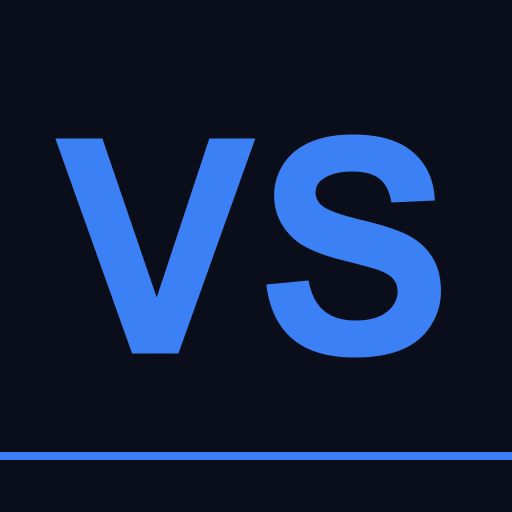
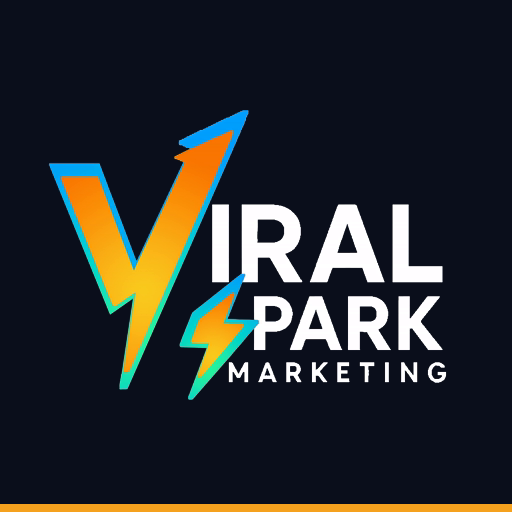
Add files via upload

Changed region(s): [[0.0938, 0.2188, 0.875, 0.7812], [0.0, 0.9688, 1.0, 1.0], [0.0, 0.875, 1.0, 0.9062]]

diff --git a/index.html b/index.html
@@ -31,10 +31,9 @@ body{font-family:var(--f-body);background:var(--vs-bg);color:var(--vs-text);-web
 
 /* SIDEBAR */
 .sidebar{background:var(--vs-navy);color:#fff;padding:24px 16px;position:sticky;top:0;height:100vh;overflow-y:auto}
-.brand{display:flex;align-items:center;gap:10px;padding:6px 8px 22px}
-.brand .mark{width:30px;height:30px;border-radius:8px;background:linear-gradient(135deg,var(--vs-blue),#22D3EE);display:flex;align-items:center;justify-content:center;font-family:var(--f-display);font-weight:800;font-size:15px;color:#fff}
-.brand .name{font-family:var(--f-display);font-weight:700;font-size:15px;letter-spacing:-.01em;line-height:1.1}
-.brand .name small{display:block;font-family:var(--f-mono);font-weight:500;font-size:9px;letter-spacing:.18em;color:rgba(255,255,255,.4);text-transform:uppercase;margin-top:2px}
+.brand{display:flex;flex-direction:column;align-items:center;gap:6px;padding:8px 8px 22px}
+.brand .brandlogo{width:150px;max-width:82%;height:auto;display:block}
+.brand .brandsub{font-family:var(--f-mono);font-weight:500;font-size:10px;letter-spacing:.24em;text-transform:uppercase;color:rgba(255,255,255,.45)}
 .navlabel{font-family:var(--f-mono);font-size:9px;letter-spacing:.18em;text-transform:uppercase;color:rgba(255,255,255,.35);margin:18px 10px 8px}
 .navbtn{display:flex;align-items:center;gap:11px;width:100%;text-align:left;border:none;background:transparent;color:rgba(255,255,255,.72);font-family:var(--f-display);font-weight:600;font-size:14px;padding:11px 12px;border-radius:10px;cursor:pointer;transition:.15s;margin-bottom:2px}
 .navbtn:hover{background:rgba(255,255,255,.06);color:#fff}
@@ -116,8 +115,8 @@ canvas#stage{display:none}
   <!-- SIDEBAR -->
   <aside class="sidebar">
     <div class="brand">
-      <div class="mark">VS</div>
-      <div class="name">Creative OS<small>Viral Spark</small></div>
+      <img class="brandlogo" src="vs-logo.png" alt="Viral Spark Marketing">
+      <div class="brandsub">Creative OS</div>
     </div>
     <div class="navlabel">Produce</div>
     <button class="navbtn active" data-screen="generate"><span class="ic">⚡</span> GBP Generator</button>